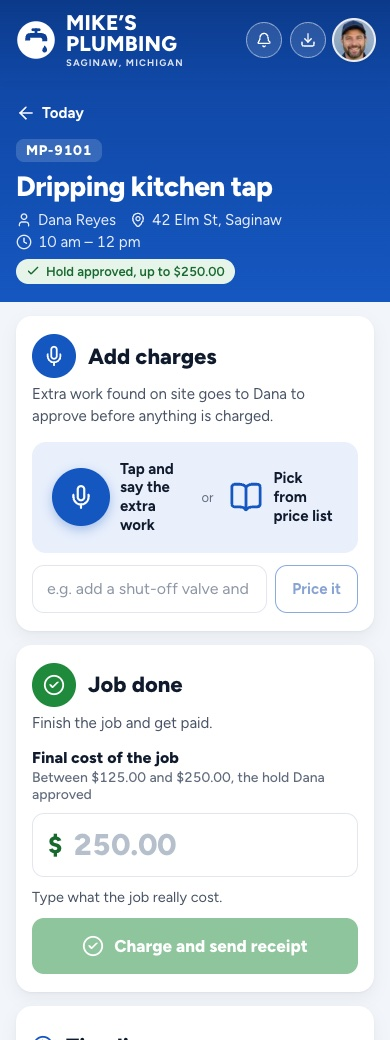
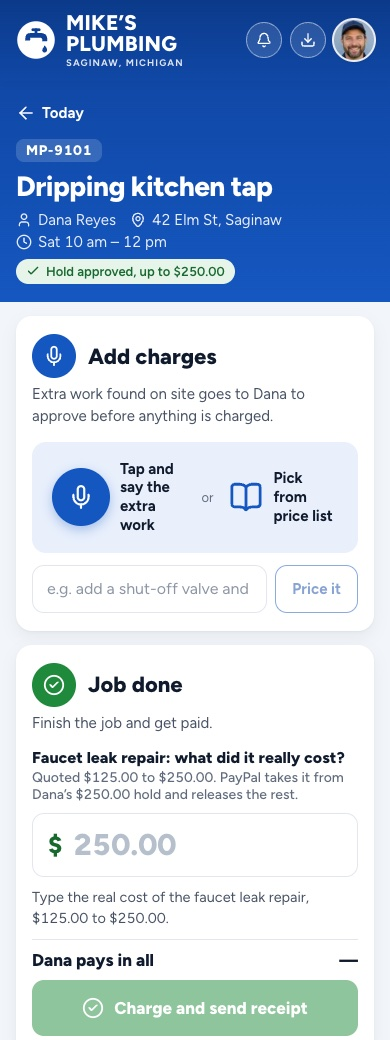
Ground the README in the current app and retake stale screenshots
An audit of the README against the code found it behind the build: it
said each visitor sees only their own jobs (phone bookings now show on
every dashboard for three days), listed customer emails for phone
callers only and fewer of them than are sent, left Haiku's problem
matcher out of the Claude cell and the diagram text, counted 156
tests (163), and cited a capture time for the change order that no run
measured. All corrected, and Mike's app row lists Withdraw, Retry the
receipt and the new alerts.

The close-out on Render Workflows is now evidenced: Render's history
shows two production closeJob runs, both completed first time in about
5.3 s, added to Real runs.

The payment page screenshot and the gallery image built from it still
showed the old test card; they, Mike's job screen and the call page
are retaken from the current app.

Changed region(s): [[0.0615, 0.8615, 0.9231, 1.0], [0.0615, 0.7077, 0.8923, 0.7692], [0.0923, 0.2154, 0.4308, 0.2462]]

diff --git a/README.md b/README.md
@@ -39,7 +39,7 @@
     <td align="center" width="145">
       <img src="assets/logos/claude.svg" width="56" height="56" alt="Claude"><br>
       <b>Claude</b><br>
-      <sub>The change orders. Turns what Mike says on site into priced lines from his rate card and price book.</sub>
+      <sub>The understanding. Sonnet turns what Mike says on site into priced lines; Haiku answers Ask your books and matches a typed problem to the price book.</sub>
     </td>
     <td align="center" width="145">
       <img src="assets/logos/aggrid.png" width="56" height="56" alt="AG Grid"><br>
@@ -70,7 +70,7 @@
 ![Render](https://img.shields.io/badge/Render-Web_·_Postgres_·_Workflows-0f1b2d?style=flat-square&logo=render&labelColor=0f1b2d)
 ![Render SDK](https://img.shields.io/badge/Render_SDK-1.3-0f1b2d?style=flat-square&logo=render&labelColor=0f1b2d)
 ![Resend](https://img.shields.io/badge/Resend-email-0f1b2d?style=flat-square&logo=resend&labelColor=0f1b2d)
-![Vitest](https://img.shields.io/badge/Vitest-5_·_156_tests-0f1b2d?style=flat-square&logo=vitest&labelColor=0f1b2d)
+![Vitest](https://img.shields.io/badge/Vitest-5_·_163_tests-0f1b2d?style=flat-square&logo=vitest&labelColor=0f1b2d)
 ![GitHub Actions](https://img.shields.io/badge/CI-GitHub_Actions-0f1b2d?style=flat-square&logo=githubactions&labelColor=0f1b2d)
 
 </div>
@@ -169,7 +169,8 @@ Every business on Ringside runs the same flow; the screens below are the demo bu
 
 4. **Job done.** Mike enters the real cost, inside the quoted range and never above the hold, and confirms it with a
    second tap. PayPal captures exactly that and releases the rest. The close-out then sends a PayPal invoice, marked
-   paid, as the customer's receipt, and closes the job. It runs on Render Workflows and is safe to replay.
+   paid, as the customer's receipt, emails it to them, and closes the job. It runs on Render Workflows and is safe to
+   replay.
 5. **Mike's desk.** On a laptop the same dashboard shows the day's bookings, what is held, waiting and paid this week,
    and every call with its cost, plus **Mike's Books**: his week in AG Studio, with an agent that answers questions like
    "Who still owes me?" from his own data. Mike installs the dashboard on his phone as an app: one tap where the browser
@@ -184,13 +185,14 @@ in code.
 
 ## Architecture
 
-<img src="assets/architecture.png" width="100%" alt="Ringside's architecture: a customer calls the Twilio number or the browser call page; the ElevenLabs agent (GLM 5.2) calls Ringside's ten server tools on Render; Ringside holds, captures and voids through PayPal Orders and Payments (server SDK), sends the receipt with Invoicing and verifies webhooks; Claude Sonnet 5.5 parses spoken change orders and Haiku 5.5 answers Ask your books; Postgres and Render Workflows run underneath; the customer approves in PayPal on the job page and the owner works from the dashboard; Resend and web push carry links and notifications">
+<img src="assets/architecture.png" width="100%" alt="Ringside's architecture: a customer calls the Twilio number or the browser call page; the ElevenLabs agent (GLM 5.2) calls Ringside's ten server tools on Render; Ringside holds, captures and voids through PayPal Orders and Payments (server SDK), sends the receipt with Invoicing and verifies webhooks; Claude Sonnet 5.5 parses spoken change orders and Haiku 5.5 answers Ask your books and matches a typed problem to the price book; Postgres and Render Workflows run underneath; the customer approves in PayPal on the job page and the owner works from the dashboard; Resend and web push carry links and notifications">
 
 The diagram's source is [`assets/src/architecture.html`](assets/src/architecture.html), rendered with headless Chrome.
 
 ## Real runs
 
-Measured against the real PayPal sandbox, the phone line and the Anthropic API on 2026-11-05. Nothing here is scripted.
+Measured against the real PayPal sandbox, the phone line, the Anthropic API and Render on 2026-11-05 and 11-06. Nothing
+here is mocked.
 
 | What | Result | How |
 |---|---|---|
@@ -198,12 +200,13 @@ Measured against the real PayPal sandbox, the phone line and the Anthropic API o
 | Capture a hold | 1.5–2.6 s | same |
 | Capture more than the hold | 115% allowed ($200.10 on $174.00); +$75 and +69% refused with `MAX_CAPTURE_AMOUNT_EXCEEDED` | same |
 | Retry a final capture with the same `PayPal-Request-Id` | PayPal returns the original capture; nothing is charged twice | same |
-| Second payment for a change order | $119.25 captured as its own payment (captures took 1.5–2.6 s), later on the receipt invoice | same, and `scripts/sandbox/receipt-invoice.mjs` |
+| Second payment for a change order | $119.25 captured as its own payment, later on the receipt invoice | same, and `scripts/sandbox/receipt-invoice.mjs` |
 | Orders through the PayPal server SDK | create and get for both intents; a replayed create with the same request ID returns the same order, a new ID a new one; authorize or capture before approval gives `ORDER_NOT_APPROVED` (13 checks) | `scripts/sandbox/sdk-orders.ts` |
 | Ask the books | "Who still owes me?" → "Luis in Bay City hasn't approved the $225.00 hold for the running toilet. Everything else is paid or secured" (4 real calls to Claude Haiku 5.5) | Mike's Books on the dev server |
 | Turn speech into change-order lines | "a shut-off valve and 45 more minutes" → valve + 3 × 15 min = $119.25; a water softener (not on the card) reported, not priced; 3.2–4.7 s, under a cent a call | `scripts/sandbox/change-order-parser.rec.ts` |
 | Send the receipt invoice | created, sent and marked paid in 5.9 s; a replay made one GET and sent nothing twice | `scripts/sandbox/receipt-flow.ts` |
-| A whole job on the live site | A browser call booked a $99.00 service visit and the customer approved the hold in PayPal; $22.00 of extra work was approved and captured 1 s after approval, the $99.00 hold was captured at job done, and the receipt invoice was marked paid 13 s later. PayPal sent `CHECKOUT.ORDER.APPROVED` twice, `PAYMENT.CAPTURE.COMPLETED` twice and `INVOICING.INVOICE.PAID` | the 3 min 56 s call's ElevenLabs log and PayPal's sandbox webhook event log |
+| A whole job on the live site | A browser call booked a $99.00 service visit and the customer approved the hold in PayPal; $22.00 of extra work was approved and captured 1 s after approval, the $99.00 hold was captured at job done, and the receipt invoice was marked paid 13 s later. PayPal sent `CHECKOUT.ORDER.APPROVED` twice, `PAYMENT.CAPTURE.COMPLETED` twice and `INVOICING.INVOICE.PAID` twice | the 3 min 56 s call's ElevenLabs log and PayPal's sandbox webhook event log |
+| Close-out on Render Workflows | Two `closeJob` runs in production (2026-11-05 and 11-06), each sending the receipt and closing the job: both completed on the first attempt, in 5.4 s and 5.3 s | Render's task-run history for the `ringside-close-out` workflow |
 | A real phone call to the agent | answered with the AI disclosure; replies 0.5–0.65 s after the caller stops (1.3 s at most) over 99 s, on the first test agent's model | a live call to the Twilio number |
 
 ## The tech, part by part
@@ -219,18 +222,18 @@ Measured against the real PayPal sandbox, the phone line and the Anthropic API o
 | Customer page | Next.js page with PayPal's JavaScript SDK buttons and guest card checkout | Approve the hold, approve or decline extra work, see the charge and receipt. If PayPal declines the buyer's funding source (`INSTRUMENT_DECLINED`), PayPal reopens to choose another and nothing is held or charged ([`src/app/j/[code]/page.tsx`](src/app/j/[code]/page.tsx), [`src/lib/holds.ts`](src/lib/holds.ts)) |
 | Change-order parser | Claude Sonnet 5.5 (`claude-sonnet-5-5`, Anthropic API), structured output with a strict JSON schema | Names rate-card items, quantities and price-book jobs only; the code takes every price from the card or the job's range and rejects unknown items, prices from the model and quantities past the card's limits ([`src/lib/change-order-parser.ts`](src/lib/change-order-parser.ts), [`src/lib/change-pricing.ts`](src/lib/change-pricing.ts)) |
 | Problem matcher | Claude Haiku 5.5 (`claude-haiku-5-5`), structured output whose only allowed answer is a price-book code | Book without calling: "my kitchen tap won't stop dripping" becomes one job from the book; the job, its range and the hold always come from the book, a gas smell gets safety advice instead of a booking, and matches are limited per visitor and per day ([`src/lib/problem-matcher.ts`](src/lib/problem-matcher.ts)) |
-| Mike's app | Next.js, installable PWA, the browser's speech recognition | Today with the job he's on first, the job screen with Add charges, Job done and Cancel job (which voids the PayPal hold and releases the money), a QR code for on-site approval, find a phone booking by its job code ([`src/app/dashboard/`](src/app/dashboard/page.tsx)) |
-| Receipts | PayPal Invoicing v2 | After the capture, an invoice for the job and any extra work, recorded as paid: emailed by PayPal when it has the payer's email, otherwise a link, and Ringside's own receipt email to a phone caller ("MP-8589: your receipt from Mike's Plumbing, $315.00 paid"). Repeat-safe through the invoice's own state ([`src/lib/receipts.ts`](src/lib/receipts.ts)) |
+| Mike's app | Next.js, installable PWA, the browser's speech recognition | Today with the job he's on first, the job screen with Add charges, Job done and Cancel job (which voids the PayPal hold and releases the money), Withdraw for extra work the customer hasn't answered, Retry for a receipt that didn't go out, a QR code for on-site approval, phone bookings appearing on their own (or found by job code), and alerts for new bookings, approvals and declined payments ([`src/app/dashboard/`](src/app/dashboard/page.tsx)) |
+| Receipts | PayPal Invoicing v2 | After the capture, an invoice for the job and any extra work, recorded as paid: emailed by PayPal when it has the payer's email, otherwise a link, and Ringside's own receipt email to any customer who gave an email ("MP-8589: your receipt from Mike's Plumbing, $315.00 paid"). Repeat-safe through the invoice's own state ([`src/lib/receipts.ts`](src/lib/receipts.ts)) |
 | Close-out | Render Workflows (`@renderinc/sdk`) | Receipt, then close the job; retried by Render, every step idempotent; runs inline when no workflow key is set ([`workflows/close-out.ts`](workflows/close-out.ts), [`src/lib/close-out.ts`](src/lib/close-out.ts)) |
 | Webhooks | PayPal Webhooks, signature verified | An approval completes even if the customer closes the page; captures, voids and paid invoices are recorded ([`src/app/api/paypal/webhook/route.ts`](src/app/api/paypal/webhook/route.ts)) |
-| Customer emails | Resend | After a phone call, the PayPal link goes to the email the caller confirmed letter by letter; that address stays with the job for its own emails: Mike's extra work to approve, then the receipt. Every subject starts with the job code ([`src/lib/email.ts`](src/lib/email.ts)) |
+| Customer emails | Resend | The PayPal link goes to the email a phone caller confirmed letter by letter, or the one typed on Book without calling. That address then gets the job's emails: booked, extra work to approve, paid, declined or withdrawn, the receipt, a cancellation or an expired hold. Every subject starts with the job code ([`src/lib/email.ts`](src/lib/email.ts), [`src/lib/customer-notices.ts`](src/lib/customer-notices.ts)) |
 | Mike's Books | AG Studio 3.0 (AG Grid 36.2, AG Charts 14.2) in view mode, themed from the app's tokens; the Studio Agent Framework with Claude Haiku 5.5 through a server proxy | Mike's week on the desk: custom figure-tile and payment-timeline widgets, money by day, the jobs grid with status pills, and "Ask your books", which reads the books through a `read_books` tool and can point the timeline at a job; capped per request, visit and day ([`src/app/dashboard/books/`](src/app/dashboard/books/page.tsx), [`src/app/api/books/ai/route.ts`](src/app/api/books/ai/route.ts)) |
 | PayPal server SDK | `@paypal/paypal-server-sdk` 2.5, generated by APIMatic; written with APIMatic's PayPal context plugin | Orders and Payments run through PayPal's official SDK with the stored request IDs; Invoicing and webhook checks stay on REST, which the SDK doesn't cover ([`src/lib/paypal.ts`](src/lib/paypal.ts)) |
-| Demo sessions | A cookie per visitor; Postgres 18; a job state machine | Each visitor sees only their own jobs plus labelled sample jobs that can't be charged ([`src/lib/dashboard.ts`](src/lib/dashboard.ts), [`src/lib/job-state.ts`](src/lib/job-state.ts), [`db/migrations/`](db/migrations/001_init.sql)) |
+| Demo sessions | A cookie per visitor; Postgres 18; a job state machine | Each visitor sees their own jobs, every phone booking from the last three days (there is one shared phone line), and labelled sample jobs that can't be charged ([`src/lib/dashboard.ts`](src/lib/dashboard.ts), [`src/lib/job-state.ts`](src/lib/job-state.ts), [`db/migrations/`](db/migrations/001_init.sql)) |
 | App | Next.js 16 (App Router), React 19, TypeScript 5.9, Figtree, lucide-react | Landing page, call page, customer page, Mike's app ([`src/app/`](src/app/page.tsx)) |
 | Hosting | Render web service, Render Postgres and a Render workflow from one Blueprint | Always on; migrations run before every deploy ([`render.yaml`](render.yaml), [`scripts/migrate.mjs`](scripts/migrate.mjs)) |
 | Monitor | GitHub Actions on a schedule | Every 30 minutes: the database, PayPal's sandbox credentials, the voice agent and the main pages; once a day a real sandbox booking through Book without calling ([`scripts/monitor/live-check.mjs`](scripts/monitor/live-check.mjs), [`.github/workflows/monitor.yml`](.github/workflows/monitor.yml)) |
-| Checks | Vitest, ESLint, GitHub Actions with a Postgres 18 service | 156 tests, including the PayPal client and the parser against recorded real responses ([`test/`](test/paypal.test.ts)) |
+| Checks | Vitest, ESLint, GitHub Actions with a Postgres 18 service | 163 tests, including the PayPal client and the parser against recorded real responses ([`test/`](test/paypal.test.ts)) |
 
 PayPal runs in the sandbox only: the server refuses to start unless `PAYPAL_ENV=sandbox`.
 
@@ -270,7 +273,7 @@ npm run dev                   # http://localhost:3000
 | `TWILIO_PHONE_NUMBER`, `TWILIO_ACCOUNT_SID`, `TWILIO_API_KEY_SID`, `TWILIO_API_KEY_SECRET`, `TWILIO_AUTH_TOKEN` | Importing the phone line into ElevenLabs (setup only) |
 | `TWILIO_TEST_CALLER_ID` | A verified phone of yours for `scripts/gates/test-call.mjs` (optional: a Twilio number can't call itself) |
 | `LLM_API_KEY`, `LLM_MODEL` | Anthropic API key for the change-order parser, Ask your books and the problem matcher; `LLM_MODEL` is the parser's model (optional; default `claude-sonnet-5-5`) |
-| `RESEND_API_KEY`, `EMAIL_FROM` | Emailing the PayPal link to phone callers (optional: without them the agent reads out the job code) |
+| `RESEND_API_KEY`, `EMAIL_FROM` | Customer emails: the PayPal link after a phone call, then booking, extra-work, receipt, cancellation and hold-expiry notices (optional: without them the agent reads out the job code) |
 | `AG_STUDIO_LICENSE_KEY` | AG Studio's licence (without it, a trial watermark shows) |
 | `BOOKS_LLM_MODEL` | Ask your books' model (optional; default `claude-haiku-5-5`) |
 | `MATCH_LLM_MODEL` | Book without calling's problem matcher (optional; default `claude-haiku-5-5`) |
@@ -284,8 +287,8 @@ each one comes from.
 
 Working end to end in the sandbox: the phone and browser calls, the quote from the price book, the PayPal hold and its
 approval (PayPal or guest card), the spoken change order as a second payment, job done with the final capture, the
-receipt invoice and the close-out, Mike's installable app, and Mike's Books with its agent. Each step is checked
-against the real APIs, and a whole job has run end to end on the live site.
+receipt invoice and the close-out on Render Workflows, cancelling with the hold voided, Mike's installable app, and Mike's
+Books with its agent. Each step is checked against the real APIs, and whole jobs have run end to end on the live site.
 
 - PayPal runs in the sandbox only, in USD.
 - A hold can grow by at most 15% at capture, so extra work is always a separate payment.
